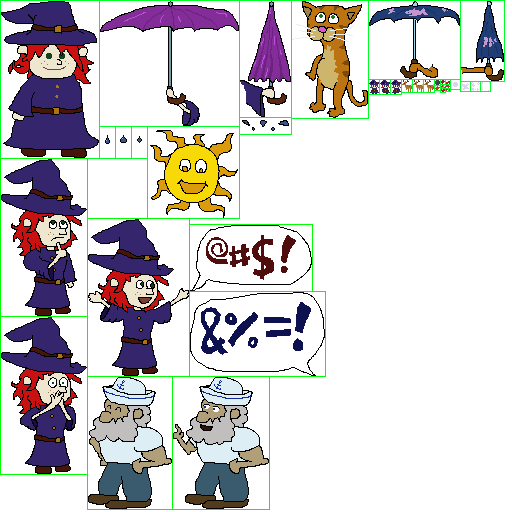
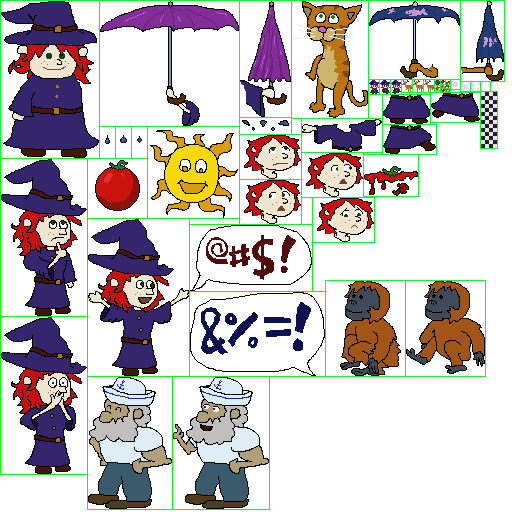
balancing contest

Changed region(s): [[0.4688, 0.1562, 1.0, 0.5], [0.6562, 0.5312, 0.9688, 0.75], [0.1875, 0.3125, 0.2812, 0.4375]]

diff --git a/src/js/games/MgBalancing.js b/src/js/games/MgBalancing.js
@@ -1,0 +1,289 @@
+/* MgBalancing.js
+ * Race to the finish line with a tomato on your head.
+ */
+ 
+import { VideoOut } from "../VideoOut.js";
+import { InputManager } from "../InputManager.js";
+import { DataService } from "../DataService.js";
+
+class Player {
+  constructor(game, name, startX) {
+    this.game = game;
+    this.name = name;
+    this.startX = startX;
+    
+    this.walkSpeed = 100; // px/sec
+    this.tomatoRadius = 23;
+    this.headRadius = 20;
+    this.walkFrameTime = 400;
+    this.tomatoVy = 100; // px/sec. There's no gravity; it's a constant downward velocity.
+    
+    this.x = this.startX;
+    this.y = this.game.groundY;
+    if (name === "dot") { // this.y is the top edge of the body
+      this.y -= MgBalancing.IMG.dotLegs[3] - MgBalancing.IMG.dotLegs[5]; // up by legs height minus control
+      this.y -= MgBalancing.IMG.dotBody[7]; // up by body's lower control
+      this.y += 3;
+      this.headY = this.y + MgBalancing.IMG.dotBody[5] - MgBalancing.IMG.dotHead[5] + this.headRadius;
+    } else {
+      this.y -= MgBalancing.IMG.orn[3]; // orn is just one decal, and both frames are the same size
+      this.y += 9;
+      this.headY = this.y + this.headRadius;
+    }
+    this.tomatoX = this.x;
+    this.tomatoY = this.headY - this.headRadius - this.tomatoRadius;
+    this.walking = false;
+    this.walkFrameClock = 0;
+    this.walkFrame = 0;
+    this.dx = 0;
+    this.ketchupped = false; // or is it "kaughtUp"?
+  }
+  
+  reset() {
+    this.x = this.startX;
+    this.tomatoX = this.x;
+    this.tomatyY = this.headY - this.headRadius - this.tomatoRadius;
+    this.walking = false;
+    this.walkFrameClock = 0;
+    this.walkFrame = 0;
+    this.dx = 0;
+    this.ketchupped = false;
+    this.crossedGo = false;
+    
+    /* The AI is super simple:
+     *   When the tomato's distance goes above one threshold, start walking, and walk until distance drops below a second threshold.
+     * The stop threshold is fixed at 10 pixels left of center.
+     * Go threshold slides left with difficulty.
+     * With the current coefficients (0.40, 0.70), he reaches the goal in 3750..6788 ms and never drops the tomato.
+     * I've finished in 2800 ms, and that was a lucky catch, must be pretty close to optimal.
+     */
+    if (this.name === "orn") {
+      const goEasy = (this.tomatoRadius + this.headRadius) * 0.40;
+      const goHard = (this.tomatoRadius + this.headRadius) * 0.70; // if this goes too high, he'll drop it
+      this.aiGoThreshold = goEasy * (1 - this.game.difficulty) + goHard * this.game.difficulty;
+      this.aiStopThreshold = 10;
+      if (this.aiGoThreshold <= this.aiStopThreshold) {
+        this.aiGoThreshold = this.aiStopThreshold + 5;
+      }
+    }
+  }
+  
+  walk(dx, interval) {
+    this.x += (dx * this.walkSpeed * interval) / 1000;
+    this.dx = dx;
+    this.walking = true;
+    if ((this.walkFrameClock -= interval) <= 0) {
+      this.walkFrameClock += this.walkFrameTime;
+      if (++(this.walkFrame) > 1) this.walkFrame = 0;
+    }
+  }
+  
+  standStill(interval) {
+    if (!this.walking) return;
+    this.walking = false;
+    this.walkFrameClock = 0;
+    this.walkFrame = 0;
+  }
+  
+  updateWithAdvancedArtificialIntelligence(interval) {
+    // The orangutan must walk left.
+    // So if the tomato is right of us at all, walk right.
+    // If it's beyond a certain threshold leftward, walk left.
+    // If it's exactly on top, eg first update, walk right to kick things off.
+    if (this.tomatoX >= this.x) {
+      this.crossedGo = false;
+      this.walk(1, interval);
+    } else if (this.tomatoX < this.x - this.aiGoThreshold) {
+      this.crossedGo = true;
+      this.walk(-1, interval);
+    } else if ((this.tomatoX < this.x - this.aiStopThreshold) && (this.dx < 0) && this.crossedGo) {
+      this.walk(-1, interval);
+    } else {
+      this.crossedGo = false;
+      this.standStill(interval);
+    }
+  }
+  
+  updateTomato(interval) {
+    if (this.ketchupped) return;
+    this.tomatoY += (this.tomatoVy * interval) / 1000;
+    if (this.tomatoY >= this.game.groundY) {
+      this.ketchupped = true;
+      this.tomatoY = this.game.groundY;
+      return;
+    }
+    
+    /* What passes for physics around here is laughably simple:
+     * We have just two bodies, tomato and head, and they are both circles.
+     * Head's position is immutable (from here).
+     */
+    const dx = this.tomatoX - this.x;
+    const dy = this.tomatoY - this.headY;
+    const distance = Math.sqrt(dx ** 2 + dy ** 2);
+    const penetration = this.tomatoRadius + this.headRadius - distance;
+    if (penetration <= 0) return;
+    if (!distance) return; // the heck? skip this frame and let gravity move it into a non-divide-by-zero position
+    const nx = dx / distance;
+    const ny = dy / distance;
+    this.tomatoX += nx * penetration;
+    this.tomatoY += ny * penetration;
+  }
+  
+  drawDot(videoOut) {
+    const x = Math.round(this.x - MgBalancing.IMG.dotBody[2] * 0.5) - 7; // 7 because her pics are a little off-center visually
+    const legsDecal = this.walkFrame ? (
+      (this.dx < 0) ? MgBalancing.IMG.dotLegsLeft : MgBalancing.IMG.dotLegsRight
+    ) : MgBalancing.IMG.dotLegs;
+    const dangerDistance = this.headRadius >> 1;
+    const headDecal =
+      this.ketchupped ? MgBalancing.IMG.dotHeadSad :
+      (this.tomatoX < this.x - dangerDistance) ? MgBalancing.IMG.dotHeadLeft :
+      (this.tomatoX > this.x + dangerDistance) ? MgBalancing.IMG.dotHeadRight :
+      MgBalancing.IMG.dotHead;
+    videoOut.blitDecal(
+      x,
+      this.y,
+      this.game.srcbits,
+      MgBalancing.IMG.dotBody,
+      0
+    );
+    videoOut.blitDecal(
+      x + MgBalancing.IMG.dotBody[4] - headDecal[4],
+      this.y + MgBalancing.IMG.dotBody[5] - headDecal[5],
+      this.game.srcbits,
+      headDecal,
+      0
+    );
+    videoOut.blitDecal(
+      x + MgBalancing.IMG.dotBody[6] - legsDecal[4],
+      this.y + MgBalancing.IMG.dotBody[7] - legsDecal[5],
+      this.game.srcbits,
+      legsDecal,
+      0
+    );
+    this.drawTomato(videoOut);
+  }
+  
+  drawOrn(videoOut) {
+    const decal = this.walkFrame ? MgBalancing.IMG.ornWalk : MgBalancing.IMG.orn;
+    videoOut.blitDecal(Math.round(this.x - MgBalancing.IMG.orn[2] * 0.5), this.y, this.game.srcbits, decal, 0);
+    this.drawTomato(videoOut);
+  }
+  
+  drawTomato(videoOut) {
+    const decal = this.ketchupped ? MgBalancing.IMG.ketchup : MgBalancing.IMG.tomato;
+    const x = Math.round(this.tomatoX - decal[2] * 0.5);
+    const y = Math.round(this.tomatoY - decal[3] * 0.5);
+    videoOut.blitDecal(x, y, this.game.srcbits, decal, 0);
+  }
+}
+ 
+export class MgBalancing {
+  static getDependencies() {
+    return [VideoOut, InputManager, DataService];
+  }
+  constructor(videoOut, inputManager, dataService) {
+    this.videoOut = videoOut;
+    this.inputManager = inputManager;
+    this.dataService = dataService;
+    
+    this.updateDuringSplashes = false;
+    this.actorName = "ORANGUTAN";
+    this.contestName = "A BALANCING CONTEST";
+    this.terminationTime = 1000;
+    
+    this.srcbits = this.dataService.getImage(MgBalancing.IMAGE_NAME);
+    this.cbComplete = () => {};
+    this.groundY = this.videoOut.canvas.height - MgBalancing.IMG.goal[3];
+    this.goalLeft = (this.videoOut.canvas.width >> 1) - (MgBalancing.IMG.goal[2] >> 1);
+    this.goalRight = this.goalLeft + MgBalancing.IMG.goal[2];
+    this.dotStartX = Math.floor((this.videoOut.canvas.width * 1) / 9);
+    this.ornStartX = Math.floor((this.videoOut.canvas.width * 8) / 9);
+    
+    this.difficulty = 0.5;
+    this.elapsed = 0;
+    this.dot = new Player(this, "dot", this.dotStartX);
+    this.orn = new Player(this, "orn", this.ornStartX);
+    this.winner = ""; // "" | "dot" | "orn"
+    this.terminationClock = this.terminationTime;
+  }
+  
+  setup(difficulty, cbComplete, seed) {
+    this.difficulty = difficulty;
+    this.cbComplete = cbComplete;
+    this.elapsed = 0;
+    this.dot.reset();
+    this.orn.reset();
+    this.winner = "";
+    this.terminationClock = this.terminationTime;
+  }
+  
+  start() {
+  }
+  
+  update(interval, inputState) {
+    this.elapsed += interval;
+    
+    if (this.winner) {
+      if ((this.terminationTime -= interval) <= 0) {
+        this.cbComplete(this.winner === "dot");
+      }
+      return;
+    }
+    
+    switch (inputState & (InputManager.BTN_LEFT | InputManager.BTN_RIGHT)) {
+      case InputManager.BTN_LEFT: this.dot.walk(-1, interval); break;
+      case InputManager.BTN_RIGHT: this.dot.walk(1, interval); break;
+      default: this.dot.standStill(interval);
+    }
+    
+    this.orn.updateWithAdvancedArtificialIntelligence(interval);
+    
+    this.dot.updateTomato(interval);
+    this.orn.updateTomato(interval);
+    
+    if (this.orn.ketchupped) {
+      if (this.dot.ketchupped) {
+        // Ties are theoretically possible. If it happens, pretend Dot's hasn't landed yet and she wins.
+        this.dot.ketchupped = false;
+      }
+      this.winner = "dot";
+    } else if (this.dot.ketchupped) {
+      this.winner = "orn";
+    } else if (this.dot.x >= this.goalLeft) {
+      this.winner = "dot";
+    } else if (this.orn.x <= this.goalRight) {
+      this.winner = "orn";
+    }
+  }
+  
+  render() {
+    this.videoOut.fillRect(0, 0, this.videoOut.canvas.width, this.videoOut.canvas.height, MgBalancing.SKY_COLOR);
+    this.videoOut.fillRect(0, this.groundY, this.videoOut.canvas.width, this.videoOut.canvas.height, MgBalancing.GROUND_COLOR);
+    this.videoOut.blitDecal(this.goalLeft, this.groundY, this.srcbits, MgBalancing.IMG.goal, 0);
+    
+    this.dot.drawDot(this.videoOut);
+    this.orn.drawOrn(this.videoOut);
+  }
+}
+
+MgBalancing.IMAGE_NAME = "./img/mg03.png";
+
+MgBalancing.SKY_COLOR = "#80b0f0";
+MgBalancing.GROUND_COLOR = "#108030";
+
+MgBalancing.IMG = {
+  tomato: [88, 159, 59, 59],
+  ketchup: [364, 155, 54, 41],
+  dotHead: [240, 135, 61, 44, 1, 33], // heads same size and have a control point (which is also always the same)
+  dotHeadLeft: [240, 180, 61, 44, 1, 33],
+  dotHeadRight: [302, 153, 61, 44, 1, 33],
+  dotHeadSad: [313, 198, 61, 44, 1, 33],
+  dotBody: [302, 119, 80, 33, 14, 3, 26, 28], // body has two control points: head then legs
+  dotLegs: [383, 95, 47, 29, 4, 1], // legs have a control point and are *not* all the same size. they *are* all same height and vert ctl.
+  dotLegsLeft: [431, 93, 49, 29, 8, 1],
+  dotLegsRight: [383, 125, 53, 29, 4, 1],
+  orn: [326, 281, 79, 95], // orn frames same size
+  ornWalk: [406, 281, 79, 95],
+  goal: [481, 92, 16, 56],
+};

diff --git a/src/js/MinigameFactory.js b/src/js/MinigameFactory.js
@@ -9,8 +9,8 @@ import { MgParachute } from "./games/MgParachute.js";
 import { MgUmbrella } from "./games/MgUmbrella.js";
 import { MgDodging } from "./games/MgDodging.js";
 import { MgSwearing } from "./games/MgSwearing.js";
-/*TODO
 import { MgBalancing } from "./games/MgBalancing.js";
+/*TODO
 import { MgRollerskates } from "./games/MgRollerskates.js";
 import { MgTraffic } from "./games/MgTraffic.js";
 import { MgLevitation } from "./games/MgLevitation.js";
@@ -67,10 +67,10 @@ MinigameFactory.implementations = [
   MgParachute,
   MgUmbrella,
   MgDodging,
-  /**/
   MgSwearing,
-  /*TODO
+  /**/
   MgBalancing,
+  /*TODO
   MgRollerskates,
   MgTraffic,
   MgLevitation,

diff --git a/src/js/Coordinator.js b/src/js/Coordinator.js
@@ -49,10 +49,15 @@ export class Coordinator {
   _onFrame() {
     this.animationFrame = null;
     if (!this.running) return;
-    this.inputManager.update();
-    this.game.update();
-    this.game.render();
-    this.animationFrame = this.window.requestAnimationFrame(() => this._onFrame());
+    try {
+      this.inputManager.update();
+      this.game.update();
+      this.game.render();
+      this.animationFrame = this.window.requestAnimationFrame(() => this._onFrame());
+    } catch (e) {
+      console.error(`Caught by Coordinator._onFrame, will rethrow`, e);
+      throw e;
+    }
   }
 }
 

diff --git a/src/bootstrap.js b/src/bootstrap.js
@@ -27,6 +27,7 @@ window.addEventListener("load", () => {
       event.preventDefault();
       const mgid = +select.value;
       const difficulty = +document.querySelector("input[name='difficulty']").value;
+      console.log(`difficulty=${difficulty}`);
       coordinator.game.beginEncounter(mgid, difficulty);
     });
   }

diff --git a/README.md b/README.md
@@ -23,7 +23,7 @@
 - - [x] Umbrella
 - - [x] Swearing
 - - [x] Dodging
-- - [ ] Balancing
+- - [x] Balancing
 - - [ ] Rollerskates
 - - [ ] Traffic
 - - [ ] Levitation
